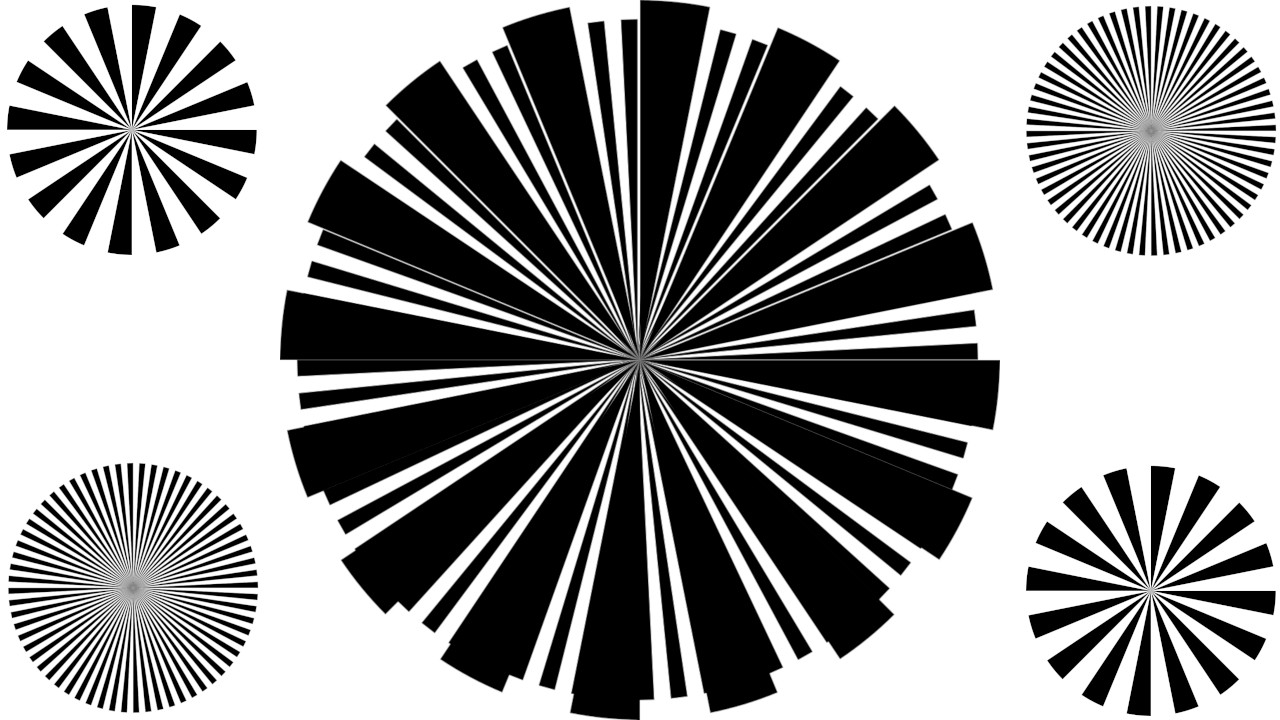
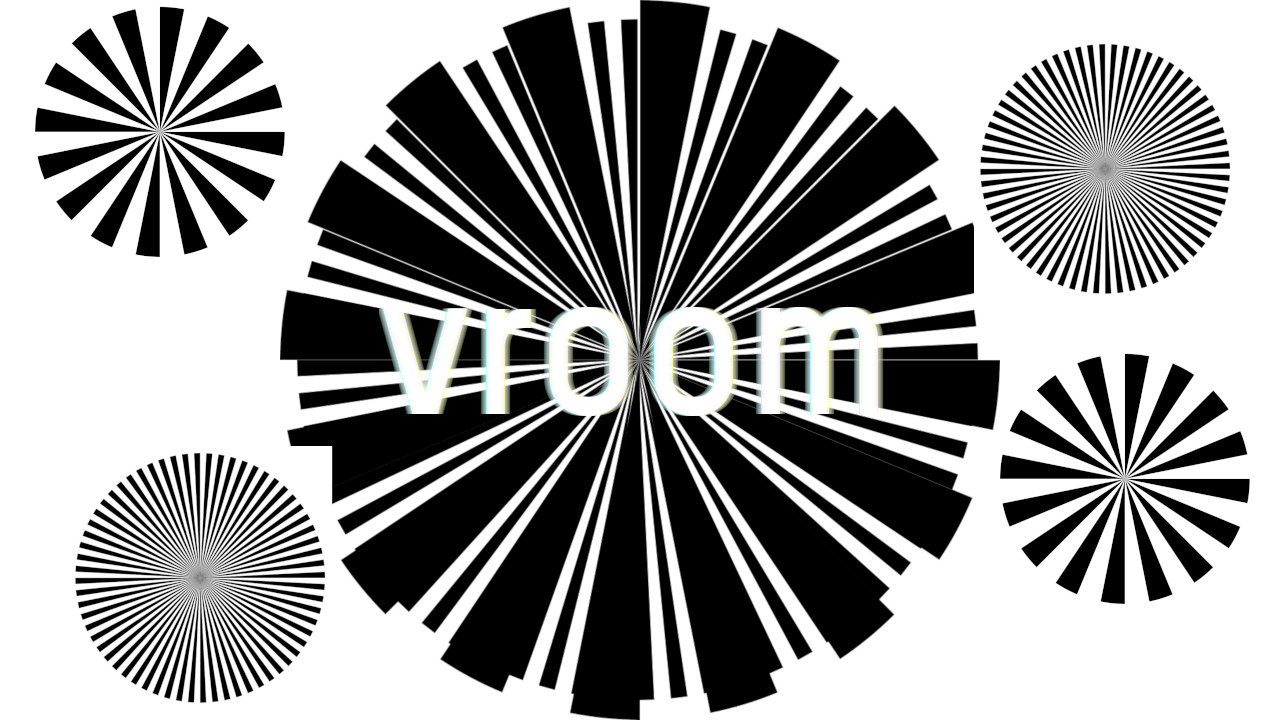
(mostly) style changes for component

diff --git a/src/components/EchoraumChat.vue b/src/components/EchoraumChat.vue
@@ -82,6 +82,7 @@ $title-font: 'Asap Condensed';
 	--color-bg: #ff5d5d;
 	--color-fg: #fff;
   --color-alert: #00dd00;
+  --invert-colors: 0%;
 }
 
 .echorooms {
@@ -98,6 +99,8 @@ $title-font: 'Asap Condensed';
 .enter {
   color: var(--color-fg) !important;
   border-color: var(--color-fg) !important;
+  font-size: 100%;
+  font-family: var(--font-body);
 }
 
 .enter:hover {
@@ -116,11 +119,39 @@ $title-font: 'Asap Condensed';
 .linked { cursor:pointer; color: var(--color-fg)}
 .linked:hover { opacity:0.8 }
 .overlay .linked  {color: white;}
-.participants ul { padding-left: 8px; }
-.darkmode .participants {
-  -webkit-filter: invert(100%);
-  filter: invert(100%);
+svg.linked:hover {
+  transform: scale(1.2);
 }
+
+.participants ul { padding-left: 8px; }
+
+.participants {
+  -webkit-filter: invert(var(--invert-colors));
+  filter: invert(var(--invert-colors));
+}
+
+.me { width:auto !important; margin-right:0px !important; }
+
+.v-text-field:not(.v-input--has-state):hover > .v-input__control > .v-input__slot:before,
+.theme--light.v-text-field:not(.v-input--has-state):hover > .v-input__control > .v-input__slot::before,
+.theme--light.v-text-field > .v-input__control > .v-input__slot::before,
+.theme--light.v-input, .theme--light.v-input input, .theme--light.v-input textarea,
+.v-input, .v-input input, .v-input textarea,
+.v-input input::placeholder, .v-input textarea::placeholder,
+.theme--light.v-input input::placeholder, .theme--light.v-input textarea::placeholder,
+.v-text-field > .v-input__control > .v-input__slot:after,
+.v-text-field > .v-input__control > .v-input__slot::before {
+  border-color: var(--color-fg);
+  color: var(--color-fg);
+  font-size:100%;
+  font-family: var(--font-body);
+}
+.v-input input::placeholder, .v-input textarea::placeholder,
+.theme--light.v-input input::placeholder, .theme--light.v-input textarea::placeholder {
+  opacity: 0.7;
+}
+
+
 
 .loading {
   -webkit-animation:spin 4s linear infinite;

diff --git a/src/components/Textroom.vue b/src/components/Textroom.vue
@@ -100,7 +100,7 @@
           talk:
         </div>
         <div class="column">
-          <v-text-field class="msg_editor" v-on:keyup.enter.exact="sendMsg" v-model="msg" />
+          <v-text-field class="msg_editor" v-on:keyup.enter.exact="sendMsg" v-model="msg" placeholder="type here" />
         </div>
         <div class="column is-narrow has-text-right emojicol">
           <a @click="sendMsg" title="send">
@@ -671,7 +671,7 @@ export default {
   position: absolute;
   z-index: 1;
   line-height:1em;
-  border: 1px solid #ccc;
+  border: 1px solid var(--color-fg);
   width: 15rem;
   height: 20rem;
   overflow-y: scroll;
@@ -679,9 +679,9 @@ export default {
   padding: 1rem;
   box-sizing: border-box;
   border-radius: 0.5rem;
-  background: #fff;
+  background: var(--color-bg);
   box-shadow: 1px 1px 8px #c7dbe6;
-  transform: translate(-14rem,-23rem);
+  transform: translate(-12rem,-23rem);
   margin-bottom:24px;
 }
 .emoji-picker__search {
@@ -696,7 +696,7 @@ export default {
 }
 .emoji-picker h5 {
   margin-bottom: 0;
-  color: #b1b1b1;
+  color: var(--color-fg);
   text-transform: uppercase;
   font-size: 0.8rem;
   cursor: default;

diff --git a/src/components/Videoroom.vue b/src/components/Videoroom.vue
@@ -10,7 +10,7 @@
           <video-icon size="1x" class="icons linked"></video-icon>
         </a>
 
-        video
+        vroom
         <span v-if="room_info.description && showRoomInfo"> - {{ room_info.description }}</span>
         <span v-if="count > 0"> ({{ count }}) </span>
 

diff --git a/src/components/Streaming.vue b/src/components/Streaming.vue
@@ -36,7 +36,7 @@ export default {
       opaqueId: this.$options._componentTag  + "-" + Janus.randomString(12),
       pluginHandle: null,
       pluginName: "streaming",
-      room: 1,
+      room: 10,
       is_streaming: false,
 
     }
